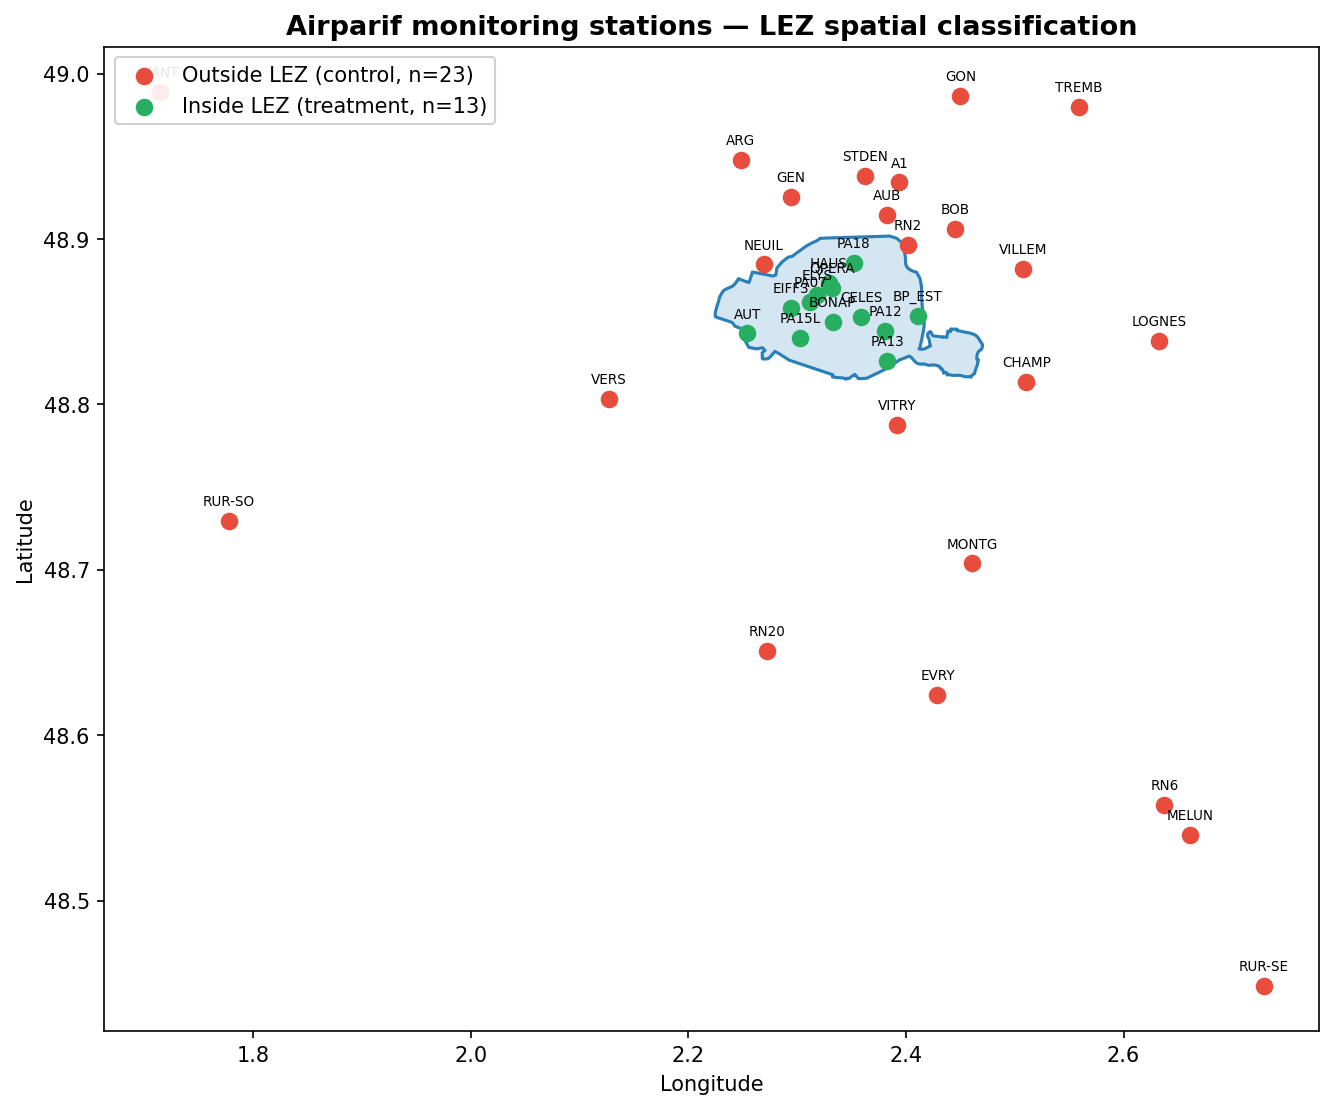
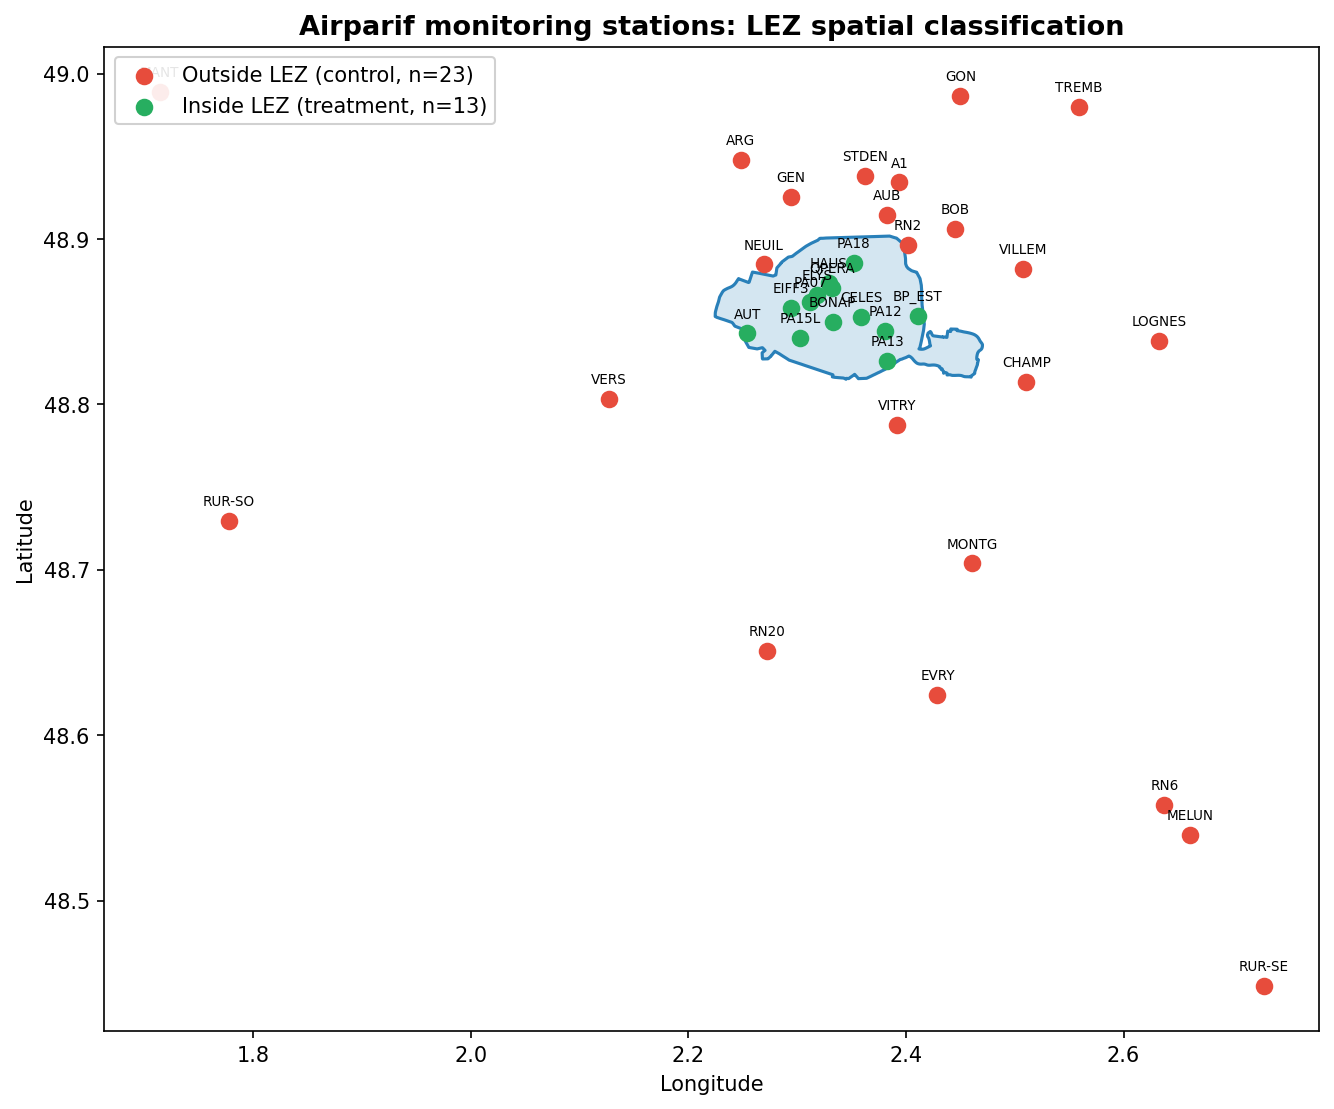
Commit station metadata and document the data setup

Changed region(s): [[0.2151, 0.0, 0.8606, 0.0307]]

diff --git a/README.md b/README.md
@@ -96,22 +96,54 @@ measurably vary with neighbourhood income at this sample size.
 
 ## How to run
 
+### 1. Environment
+
 ```bash
-# 1. Create and activate virtual environment
+# Create and activate the virtual environment
 python -m venv zfe-env
 source zfe-env/bin/activate      # Windows: zfe-env\Scripts\activate
 
-# 2. Install dependencies
+# Install dependencies
 pip install -r requirements.txt
+```
 
-# 3. Place raw data in data/raw/ (see Data sources above)
+### 2. Download raw data
 
-# 4. Run notebooks in order
+Raw data is not redistributed (148 MB, and some sources require a request).
+Download the following files from the official portals and place them at the
+**exact paths** below — `src/data_loader.py` expects this structure.
+
+```
+data/raw/
+├── airparif/
+│   ├── 2019_NO2.csv                                ← from data.airparif.fr (hourly NO₂)
+│   ├── 2020_NO2.csv                                ← from data.airparif.fr
+│   ├── 2021_NO2.csv                                ← from data.airparif.fr
+│   ├── 2022_NO2.csv                                ← from data.airparif.fr
+│   ├── 2023_NO2.csv                                ← from data.airparif.fr
+│   └── stations_metadata.csv                       ← included in the repo (do not delete)
+├── zfe_perimetres/
+│   └── zone-a-faibles-emissions.geojson            ← from data.gouv.fr (search "ZFE")
+└── insee_iris/
+    ├── BASE_TD_FILO_IRIS_2021_DISP.csv             ← from insee.fr (FiLoSoFi 2021)
+    └── CONTOURS-IRIS_3-0__SHP_LAMB93_FXX_2024-01-01/
+        └── ... (unzip the IGN archive as-is)       ← from geoservices.ign.fr
+```
+
+Source URLs are listed in the **Data sources** table above.
+`stations_metadata.csv` (Airparif station coordinates geocoded via Nominatim)
+is committed to the repo as an exception so the analysis is runnable as soon
+as you have the upstream data files.
+
+### 3. Run the notebooks
+
+```bash
 jupyter notebook
 ```
 
-Notebooks are self-contained and load data via `src/data_loader.py`.
-Run them in order: `01` → `02` → `03`.
+Open and run the notebooks in order: `01_exploration` → `02_cleaning` → `03_analysis`.
+Notebook 02 generates `data/processed/`; notebook 03 generates the figures in `outputs/`
+and prints the final DiD coefficient (**−1.22 µg/m³**, p < 0.001).
 
 ---
 